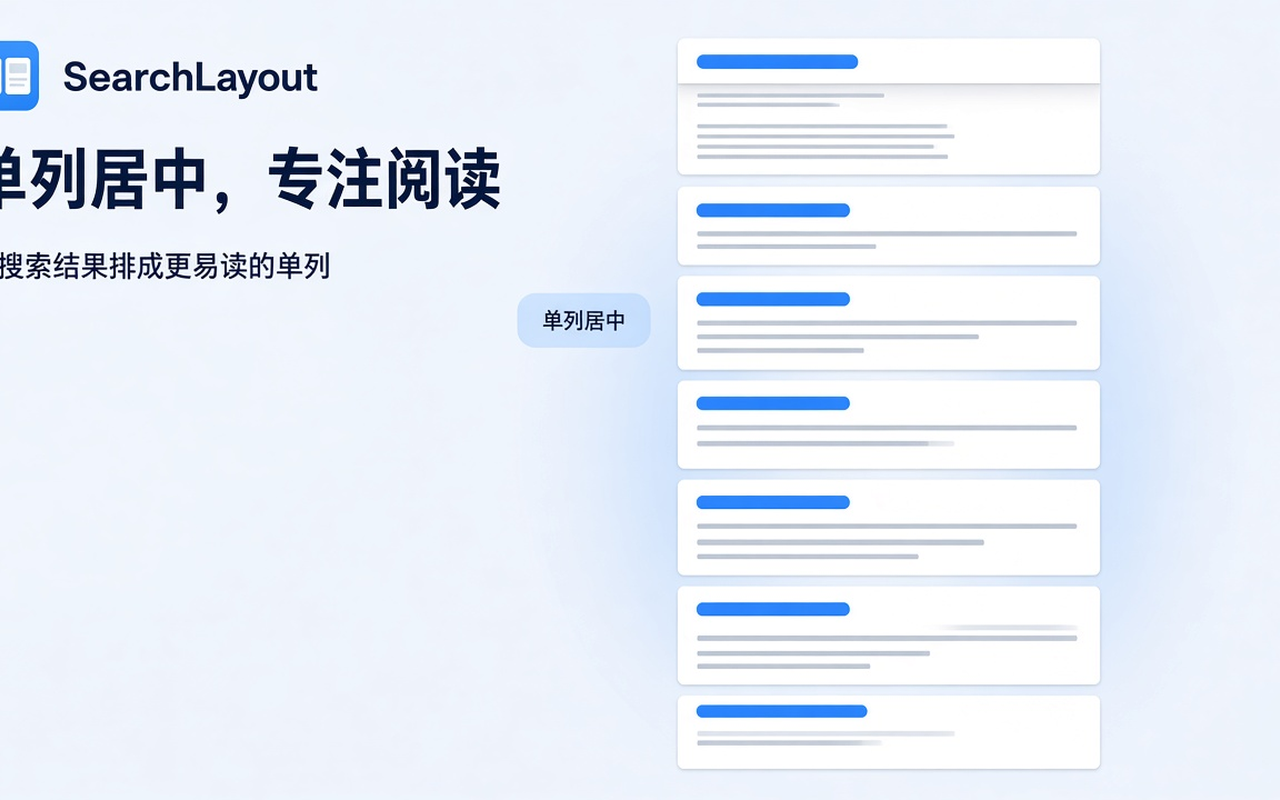
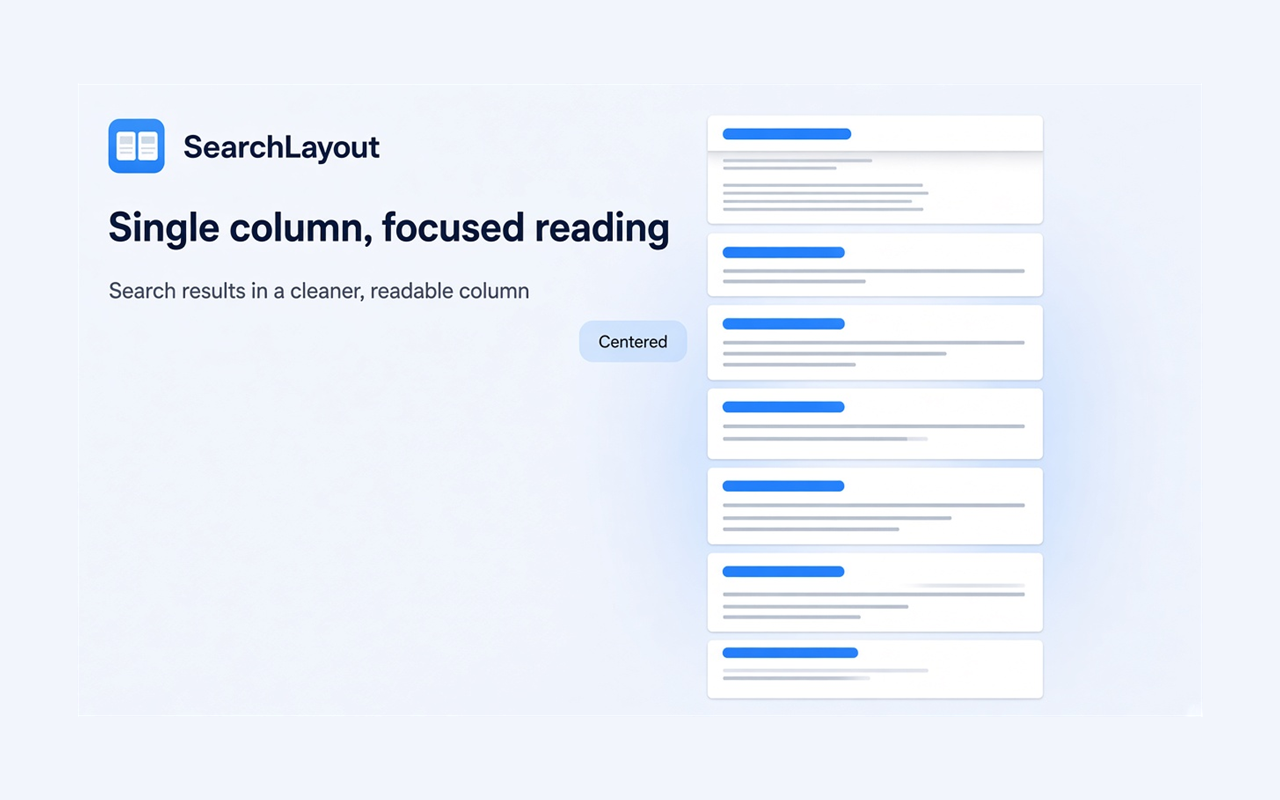
feat: 提交多语言文本，修改宣传图

Changed region(s): [[0.0, 0.0312, 0.875, 0.9375]]

diff --git a/extension/popup.html b/extension/popup.html
@@ -1,5 +1,5 @@
 <!doctype html>
-<html lang="zh-CN">
+<html lang="en" data-locale="en">
   <head>
     <meta charset="utf-8">
     <meta name="viewport" content="width=device-width, initial-scale=1">
@@ -22,16 +22,22 @@
           </svg>
         </div>
         <div class="bsp-hero-copy">
-          <h1>SearchLayout</h1>
-          <p>把搜索结果排成更易读的版式</p>
+          <div class="bsp-hero-top">
+            <h1>SearchLayout</h1>
+            <div class="bsp-lang" role="group" aria-label="Language">
+              <button type="button" class="bsp-lang-btn is-active" data-locale="en" aria-pressed="true" data-i18n="langEn">EN</button>
+              <button type="button" class="bsp-lang-btn" data-locale="zh" aria-pressed="false" data-i18n="langZh">中文</button>
+            </div>
+          </div>
+          <p data-i18n="tagline">Cleaner, more readable search layouts</p>
         </div>
       </header>
 
       <form id="bsp-prefs" class="bsp-form">
         <section class="bsp-section" aria-labelledby="bsp-layout-title">
           <div class="bsp-section-head">
-            <h2 id="bsp-layout-title">布局</h2>
-            <span class="bsp-section-hint">立即生效</span>
+            <h2 id="bsp-layout-title" data-i18n="layout">Layout</h2>
+            <span class="bsp-section-hint" data-i18n="layoutHint">Applies instantly</span>
           </div>
 
           <div class="bsp-mode-grid" role="radiogroup" aria-labelledby="bsp-layout-title">
@@ -46,8 +52,8 @@
                   </svg>
                 </span>
                 <span class="bsp-mode-text">
-                  <span class="bsp-mode-title">原始</span>
-                  <span class="bsp-mode-desc">不改引擎排版</span>
+                  <span class="bsp-mode-title" data-i18n="modeOriginal">Original</span>
+                  <span class="bsp-mode-desc" data-i18n="modeOriginalDesc">Keep the engine layout</span>
                 </span>
               </span>
             </label>
@@ -64,8 +70,8 @@
                   </svg>
                 </span>
                 <span class="bsp-mode-text">
-                  <span class="bsp-mode-title">单列</span>
-                  <span class="bsp-mode-desc">卡片纵向堆叠</span>
+                  <span class="bsp-mode-title" data-i18n="modeSingle">Single</span>
+                  <span class="bsp-mode-desc" data-i18n="modeSingleDesc">Stack results vertically</span>
                 </span>
               </span>
             </label>
@@ -82,8 +88,8 @@
                   </svg>
                 </span>
                 <span class="bsp-mode-text">
-                  <span class="bsp-mode-title">单列居中</span>
-                  <span class="bsp-mode-desc">阅读宽度更舒适</span>
+                  <span class="bsp-mode-title" data-i18n="modeSingleCenter">Centered</span>
+                  <span class="bsp-mode-desc" data-i18n="modeSingleCenterDesc">Comfortable reading width</span>
                 </span>
               </span>
             </label>
@@ -102,8 +108,8 @@
                   </svg>
                 </span>
                 <span class="bsp-mode-text">
-                  <span class="bsp-mode-title">双列</span>
-                  <span class="bsp-mode-desc">宽屏并排浏览</span>
+                  <span class="bsp-mode-title" data-i18n="modeDouble">Dual</span>
+                  <span class="bsp-mode-desc" data-i18n="modeDoubleDesc">Side-by-side on wide screens</span>
                 </span>
               </span>
             </label>
@@ -112,14 +118,14 @@
 
         <section class="bsp-section" aria-labelledby="bsp-reading-title">
           <div class="bsp-section-head">
-            <h2 id="bsp-reading-title">阅读</h2>
+            <h2 id="bsp-reading-title" data-i18n="reading">Reading</h2>
           </div>
 
           <label class="bsp-switch">
             <input type="checkbox" name="autoPage">
             <span class="bsp-switch-copy">
-              <span class="bsp-switch-title">自动翻页</span>
-              <span class="bsp-switch-desc">滚到底部时加载下一页结果</span>
+              <span class="bsp-switch-title" data-i18n="autoPage">Auto page</span>
+              <span class="bsp-switch-desc" data-i18n="autoPageDesc">Load the next page at the bottom</span>
             </span>
             <span class="bsp-switch-track" aria-hidden="true">
               <span class="bsp-switch-thumb"></span>

diff --git a/extension/popup.css b/extension/popup.css
@@ -71,6 +71,13 @@ body {
   background: var(--bsp-primary-soft);
 }
 
+.bsp-hero-top {
+  display: flex;
+  align-items: center;
+  justify-content: space-between;
+  gap: 8px;
+}
+
 .bsp-hero-copy h1 {
   margin: 0;
   font-size: 15px;
@@ -82,6 +89,43 @@ body {
   margin: 2px 0 0;
   color: var(--bsp-muted);
   font-size: 12px;
+}
+
+.bsp-lang {
+  display: inline-flex;
+  align-items: center;
+  padding: 2px;
+  border: 1px solid var(--bsp-line);
+  border-radius: 999px;
+  background: #f3f6fb;
+  flex-shrink: 0;
+}
+
+.bsp-lang-btn {
+  appearance: none;
+  margin: 0;
+  border: 0;
+  padding: 3px 8px;
+  border-radius: 999px;
+  background: transparent;
+  color: var(--bsp-muted);
+  font: inherit;
+  font-size: 11px;
+  font-weight: 600;
+  line-height: 1.2;
+  cursor: pointer;
+}
+
+.bsp-lang-btn.is-active,
+.bsp-lang-btn[aria-pressed="true"] {
+  background: var(--bsp-surface);
+  color: var(--bsp-primary-deep);
+  box-shadow: 0 1px 2px rgba(21, 32, 51, 0.08);
+}
+
+.bsp-lang-btn:focus-visible {
+  outline: 2px solid rgba(47, 111, 237, 0.35);
+  outline-offset: 1px;
 }
 
 .bsp-form {
